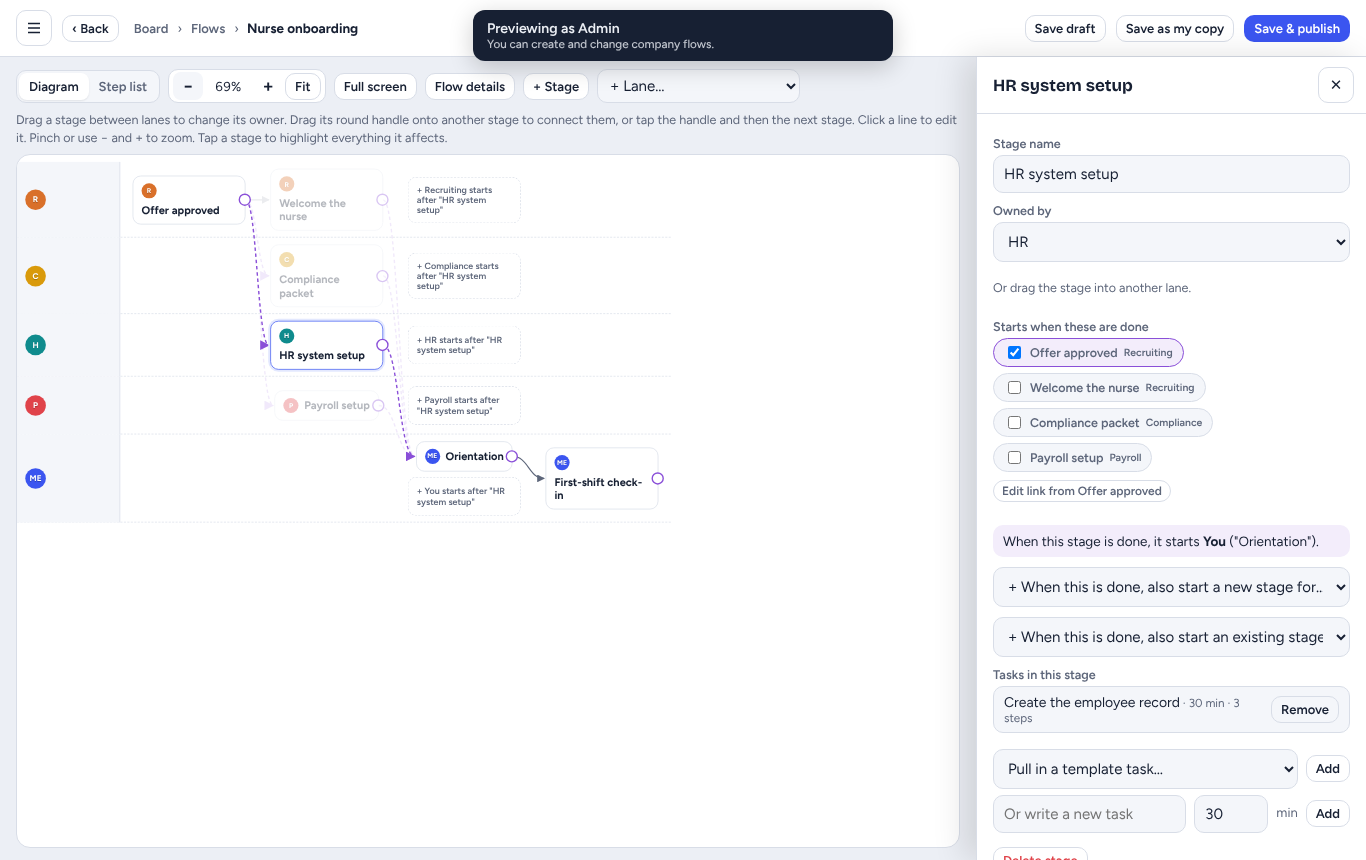
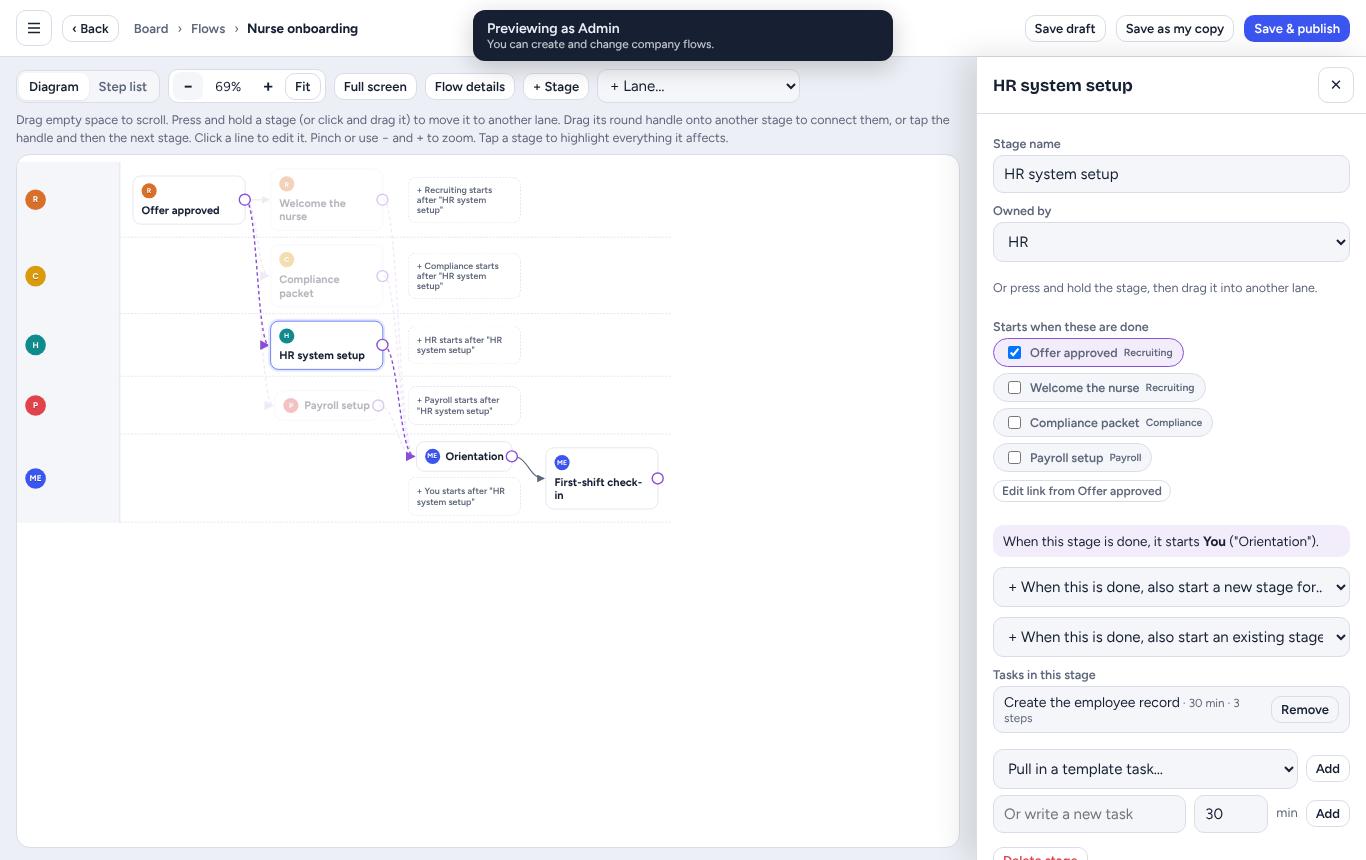
Fix flow diagram scrolling on touch: swipes scroll, press-and-hold moves a stage, mouse drag pans empty space
Claude-Session: https://claude.ai/code/session_01Nwn5EYhqkVYJJvN1sh1i9W

Changed region(s): [[0.0, 0.1209, 0.7072, 0.1814], [0.7379, 0.3326, 0.9531, 0.3628]]

diff --git a/prototype/index.html b/prototype/index.html
@@ -432,7 +432,9 @@ a{color:var(--accent)}
 .btool{display:flex;gap:8px;flex-wrap:wrap;align-items:center;margin-bottom:10px}
 .hint{font-size:12.5px;color:var(--muted);line-height:1.4}
 .bcanvas .flowwrap{margin-top:0;background:var(--surface)}
-.fnode.editable{touch-action:none;user-select:none}
+.fnode.editable{touch-action:manipulation;user-select:none;-webkit-touch-callout:none}
+.fnode.lifted{transform:scale(1.04);box-shadow:0 10px 26px rgba(0,0,0,.22)!important;z-index:5}
+.bcanvas .flowwrap.panning{cursor:grabbing}
 .nport{position:absolute;right:-9px;top:50%;width:18px;height:18px;margin-top:-9px;border-radius:50%;background:var(--surface);border:2px solid var(--violet);cursor:crosshair;z-index:4;touch-action:none}
 .nport:hover,.nport:focus-visible{background:var(--violet)}
 .fnode.dragging{opacity:.35}
@@ -1935,7 +1937,7 @@ function stagePanel(){
   const opts = D.stages.filter(x => x !== st && !desc.has(x.id)), kids = kidsOf(st.id);
   return `<h3>Stage: ${esc(st.title)}</h3>
     <div class="field" style="margin-top:8px"><label for="bsTitle">Stage name</label><input id="bsTitle" value="${esc(st.title)}" ${dis}></div>
-    <div class="field"><label for="bsRole">Owned by</label><select id="bsRole" ${dis}>${roleOptions(st.role)}</select><p class="hint">Or drag the stage into another lane.</p></div>
+    <div class="field"><label for="bsRole">Owned by</label><select id="bsRole" ${dis}>${roleOptions(st.role)}</select><p class="hint">Or press and hold the stage, then drag it into another lane.</p></div>
     <div class="field"><label>Starts when these are done</label><div class="depgrid">${opts.map(x => `<label class="dep"><input type="checkbox" data-dep="${esc(x.id)}" ${(st.after || []).includes(x.id) ? 'checked' : ''} ${dis}> ${esc(x.title)} <small>${esc(roleOf(x.role).name)}</small></label>`).join('') || '<span class="note">No other stages yet.</span>'}</div>
       <p class="hint" style="margin-top:4px">${!(st.after || []).length ? 'Starts as soon as the flow begins.' : st.after.length > 1 ? 'Waits until all ' + st.after.length + ' are finished.' : ''} ${(st.after || []).map(a => { const x = D.stages.find(y => y.id === a); return x ? `<button class="chipbtn" style="padding:2px 8px;font-size:12px" data-act="blink" data-src="${a}" data-dst="${st.id}">Edit link from ${esc(x.title)}</button>` : ''; }).join(' ')}</p></div>
     <div class="handoff-note">${kids.length ? `When this stage is done, it starts ${kids.length > 1 ? '<b>' + kids.length + ' stages at once</b>: ' : ''}${kids.map(k => '<b>' + esc(roleOf(k.role).name) + '</b> ("' + esc(k.title) + '")').join(', ')}.` : 'Nothing starts after this stage yet.'}${st.role === 'crmowner' ? ' This stage goes to whoever owns the contact in your CRM.' : ''}</div>
@@ -2067,7 +2069,7 @@ function renderBuilder(){
     ${view === 'changes' ? `<button class="btn small" data-act="bchanges">What changed (${diff.list.length})</button>` : ''}
     ${structure && view === 'suggested' ? `<button class="btn small" data-act="broot">+ Stage</button><select id="bLane" class="inp" style="width:auto;padding:6px 8px" aria-label="Add a lane"><option value="">+ Lane…</option>${roleOptions('', D.lanes)}</select>` : ''}
     ${D.full ? `<div class="spacer"></div>${right}` : ''}</div>`;
-  const hint = mode === 'diagram' && structure && view === 'suggested' && !phonePortrait ? '<p class="hint" style="margin:0 0 8px">Drag a stage between lanes to change its owner. Drag its round handle onto another stage to connect them, or tap the handle and then the next stage. Click a line to edit it. Pinch or use − and + to zoom. Tap a stage to highlight everything it affects.</p>' : '';
+  const hint = mode === 'diagram' && structure && view === 'suggested' && !phonePortrait ? '<p class="hint" style="margin:0 0 8px">Drag empty space to scroll. Press and hold a stage (or click and drag it) to move it to another lane. Drag its round handle onto another stage to connect them, or tap the handle and then the next stage. Click a line to edit it. Pinch or use − and + to zoom. Tap a stage to highlight everything it affects.</p>' : '';
   const rotate = phonePortrait && mode === 'diagram' && !S.settings.noRotateHint ? `<div class="hintbar"><span style="flex:1;min-width:160px">Turn your phone sideways for more room, or use the step list.</span><button class="btn small" data-act="bmode" data-v="list">Step list</button><button class="btn small ghost" data-act="bnorotate">Don't show again</button></div>` : '';
   const body = mode === 'list' ? listHTML(shown, o) : flowHTML(shown, o) + '<div class="minimap" id="minimap" hidden title="Overview: tap to jump"></div>';
   let panelTitle = '', side = '';
@@ -2086,7 +2088,7 @@ function renderBuilder(){
   requestAnimationFrame(() => {
     if (mode === 'diagram'){
       if (D.zoom == null) fitZoom(); else applyZoom();
-      drawFlow(); drawMinimap(); bindZoomGestures(); if (view === 'suggested') bindBuilderDrag();
+      drawFlow(); drawMinimap(); bindZoomGestures(); bindBuilderDrag();
       const tgt = D.scrollTo && selSid && document.querySelector(`.bcanvas .fnode[data-sid="${CSS.escape(selSid)}"]`); if (tgt) tgt.scrollIntoView({block:'nearest', inline:'center', behavior:'smooth'});
     } else { const tgt = D.scrollTo && selSid && document.querySelector(`.scard[data-sid="${CSS.escape(selSid)}"]`); if (tgt) tgt.scrollIntoView({block:'nearest', behavior:'smooth'}); }
     D.scrollTo = false;
@@ -2123,18 +2125,36 @@ function connect(src, dst){
   toast('Connected', '"' + d.title + '" now starts after "' + s.title + '". Choose how they relate on the right.');
 }
 function bindBuilderDrag(){
-  const canvas = document.querySelector('.bcanvas'); if (!canvas || !canStructure(D)) return;
+  const canvas = document.querySelector('.bcanvas'); if (!canvas) return;
+  const editable = canStructure(D) && flowEditable;
   canvas.onpointerdown = e => {
     if (e.button !== 0 || e.target.closest('.ntools')) return;
-    const node = e.target.closest('.fnode[data-sid]'); if (!node) return;
+    const node = e.target.closest('.fnode[data-sid]');
+    const {wrap} = canvasParts();
+    // Click and drag empty space to scroll (touch already scrolls natively)
+    if (!node || node.classList.contains('ghost') || !editable){
+      if (e.pointerType !== 'mouse' || !wrap || !wrap.contains(e.target) || e.target.closest('button,select,input,.fnode.ghost')) return;
+      const sx = e.clientX, sy = e.clientY, sl = wrap.scrollLeft, st = wrap.scrollTop; let panned = false;
+      const mv = ev => { const dx = ev.clientX - sx, dy = ev.clientY - sy; if (!panned && Math.hypot(dx, dy) < 4) return; panned = true; wrap.classList.add('panning'); wrap.scrollLeft = sl - dx; wrap.scrollTop = st - dy; };
+      const upp = () => { window.removeEventListener('pointermove', mv); wrap.classList.remove('panning'); if (panned){ dragSuppress = true; setTimeout(() => dragSuppress = false, 60); } };
+      window.addEventListener('pointermove', mv); window.addEventListener('pointerup', upp, {once:true}); window.addEventListener('pointercancel', upp, {once:true});
+      return;
+    }
     const port = !!e.target.closest('.nport'), sid = node.dataset.sid, flow = canvas.querySelector('.flow'), svg = flow.querySelector('.flowsvg');
+    const touch = e.pointerType !== 'mouse';
+    // On touch, moving a stage needs a press and hold, so an ordinary swipe scrolls the diagram
+    let armed = !touch || port, pressTimer = null;
+    if (!armed) pressTimer = setTimeout(() => { armed = true; node.classList.add('lifted'); try { navigator.vibrate && navigator.vibrate(15); } catch(_){} }, 380);
     const x0 = e.clientX, y0 = e.clientY; let moved = false, ghost = null, line = null, over = null;
-    const noScroll = ev => { if (moved) ev.preventDefault(); };
+    const noScroll = ev => { if (armed) ev.preventDefault(); };
     document.addEventListener('touchmove', noScroll, {passive:false});
     const laneAt = y => [...flow.querySelectorAll('.laneband')].findIndex(b => { const r = b.getBoundingClientRect(); return y >= r.top && y < r.bottom; });
+    const cleanup = () => { clearTimeout(pressTimer); window.removeEventListener('pointermove', move); window.removeEventListener('pointerup', up); window.removeEventListener('pointercancel', up); document.removeEventListener('touchmove', noScroll); node.classList.remove('lifted'); };
     const move = ev => {
       if (pinching){ if (ghost) ghost.remove(); if (line) line.remove(); node.classList.remove('dragging'); moved = false; ghost = line = null; return; }
-      if (!moved && Math.hypot(ev.clientX - x0, ev.clientY - y0) < 6) return;
+      const dist = Math.hypot(ev.clientX - x0, ev.clientY - y0);
+      if (!armed){ if (dist > 8) cleanup(); return; } // the finger is scrolling, not dragging
+      if (!moved && dist < 6) return;
       if (!moved){ moved = true;
         if (port){ line = document.createElementNS('http://www.w3.org/2000/svg', 'path'); line.setAttribute('class', 'handoff'); svg.appendChild(line); }
         else { ghost = document.createElement('div'); ghost.className = 'dragghost'; ghost.textContent = node.querySelector('b').textContent; document.body.appendChild(ghost); node.classList.add('dragging'); } }
@@ -2145,20 +2165,27 @@ function bindBuilderDrag(){
         if (over && over !== n) over.classList.remove('droptarget'); over = n && n !== node ? n : null; if (over) over.classList.add('droptarget');
       } else {
         ghost.style.left = ev.clientX + 12 + 'px'; ghost.style.top = ev.clientY + 8 + 'px';
-        const li = laneAt(ev.clientY); flow.querySelectorAll('.laneband').forEach((b, i) => b.classList.toggle('drop', i === li));
+        const li = laneAt(ev.clientY); flow.querySelectorAll('.laneband').forEach((b, k) => b.classList.toggle('drop', k === li));
+        // keep the diagram scrolling when dragging near an edge
+        if (wrap){ const r = wrap.getBoundingClientRect(), edge = 36;
+          if (ev.clientX > r.right - edge) wrap.scrollLeft += 12; else if (ev.clientX < r.left + edge) wrap.scrollLeft -= 12;
+          if (ev.clientY > r.bottom - edge) wrap.scrollTop += 12; else if (ev.clientY < r.top + edge) wrap.scrollTop -= 12; }
       }
     };
     const up = ev => {
-      window.removeEventListener('pointermove', move); window.removeEventListener('pointercancel', up); document.removeEventListener('touchmove', noScroll);
-      if (!moved || pinching){ if (port && !pinching){ dragSuppress = true; setTimeout(() => dragSuppress = false, 60); D.connectFrom = sid; D.link = null; renderBuilder(); } return; }
+      const wasArmed = armed; cleanup();
+      if (!moved || pinching){ if (port && !pinching && ev.type === 'pointerup'){ dragSuppress = true; setTimeout(() => dragSuppress = false, 60); D.connectFrom = sid; D.link = null; renderBuilder(); }
+        else if (touch && wasArmed && !port && ev.type === 'pointerup'){ dragSuppress = true; setTimeout(() => dragSuppress = false, 60); toast('Now drag it', 'Press and hold, then move the stage into another lane.'); }
+        return; }
       dragSuppress = true; setTimeout(() => dragSuppress = false, 60);
       if (ghost) ghost.remove(); if (line) line.remove(); node.classList.remove('dragging');
+      if (ev.type !== 'pointerup'){ renderBuilder(); return; }
       if (port){ if (over) connect(sid, over.dataset.sid); }
       else { const li = laneAt(ev.clientY), st = D.stages.find(x => x.id === sid), role = D.lanes[li];
-        if (li > -1 && role && st.role !== role){ st.role = role; D.sel = D.stages.indexOf(st); D.link = null; toast('Moved "' + st.title + '" to ' + roleOf(role).name, 'That lane owns this stage now.'); } }
+        if (li > -1 && role && st.role !== role){ st.role = role; D.sel = D.stages.indexOf(st); D.link = null; D.panel = true; toast('Moved "' + st.title + '" to ' + roleOf(role).name, 'That lane owns this stage now.'); } }
       renderBuilder();
     };
-    window.addEventListener('pointermove', move); window.addEventListener('pointerup', up, {once:true}); window.addEventListener('pointercancel', up, {once:true});
+    window.addEventListener('pointermove', move); window.addEventListener('pointerup', up); window.addEventListener('pointercancel', up);
   };
 }
 function builderSave(kind){

diff --git a/docs/04-decision-log.md b/docs/04-decision-log.md
@@ -69,6 +69,7 @@
 | D64 | **Step list** view: the same flow read top to bottom by step, parallel stages grouped, with waits-for / then-starts / receives on each card; editable. Default on phones held upright; a one-time hint suggests turning sideways |
 | D65 | **Path highlight**: selecting a stage highlights everything it waits on and everything it starts; the rest fades. Clicking empty canvas clears it |
 | D66 | Empty lanes collapse to a thin row; long hints and legends hide on small screens; the suggester's note folds behind "Read their note" |
+| D67 | **Scrolling always wins on touch**: a normal swipe anywhere on the diagram scrolls it, even when it starts on a stage. Moving a stage on a phone needs a press and hold (the card lifts and the phone gives a short buzz). With a mouse, drag empty space to pan; dragging a stage still moves it. Dragging near an edge scrolls the diagram |
 
 ## Open
 | # | Question |
